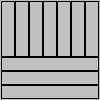
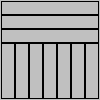
little bug fixes in template and gui

Changed region(s): [[0.0, 0.54, 0.99, 0.99], [0.0, 0.0, 0.99, 0.45]]

diff --git a/pickuptemplate.cpp b/pickuptemplate.cpp
@@ -27,7 +27,7 @@ PickupTemplate :: PickupTemplate(int t)
 			tmp = new char[100];
 			sprintf(tmp, "Column count");
 			parameterNames.push_back(tmp);
-			parameterValues.push_back(14);
+			parameterValues.push_back(10);
 			break;
 		case MURRINE_SQUARE_TEMPLATE:
 			tmp = new char[100];
@@ -116,14 +116,14 @@ void PickupTemplate :: computeSubtemps()
 			for (int i = 0; i < parameterValues[0]; ++i)
 			{
 				p.x = -1.0 + width / 2 + width * i;
-				p.y = -1.0;
+				p.y = 0.0;
 				subtemps.push_back(new SubpickupTemplate(p, VERTICAL_ORIENTATION, 1.0, width - 0.01, 
 					SQUARE_SHAPE, 0));
 			}
 			for (int i = 0; i < parameterValues[0]/2; ++i)
 			{
 				p.x = -1.0;
-				p.y = width / 2 + width * i;
+				p.y = -1.0 + width / 2 + width * i;
 				subtemps.push_back(new SubpickupTemplate(p, HORIZONTAL_ORIENTATION, 1.99, width - 0.01, 
 					SQUARE_SHAPE, 1));
 			}

diff --git a/mesh.cpp b/mesh.cpp
@@ -585,7 +585,7 @@ void Mesher :: generateMesh(PullPlan* plan, int mandatedShape, Geometry *geometr
 
 			ancestorIndices->push_back(i);
 			generateMesh(plan->subplans[i], plan->getTemplate()->subtemps[i].shape, geometry, ancestors, 
-				ancestorIndices, length - 0.01, false, passGroupIndex);
+				ancestorIndices, length + 0.001, false, passGroupIndex);
 			ancestorIndices->pop_back();
 		}
 	}

diff --git a/pullplaneditorwidget.cpp b/pullplaneditorwidget.cpp
@@ -167,7 +167,7 @@ void PullPlanEditorWidget :: setupLayout()
 	{
 		paramLayout->addWidget(paramLabels[i], 0);
 		paramLayout->addWidget(paramSpins[i], 0);
-		paramSpins[i]->setRange(2, 16);
+		paramSpins[i]->setRange(2, 30);
 		paramSpins[i]->setSingleStep(1);
 		paramLabels[i]->hide();
 		paramSpins[i]->hide();
